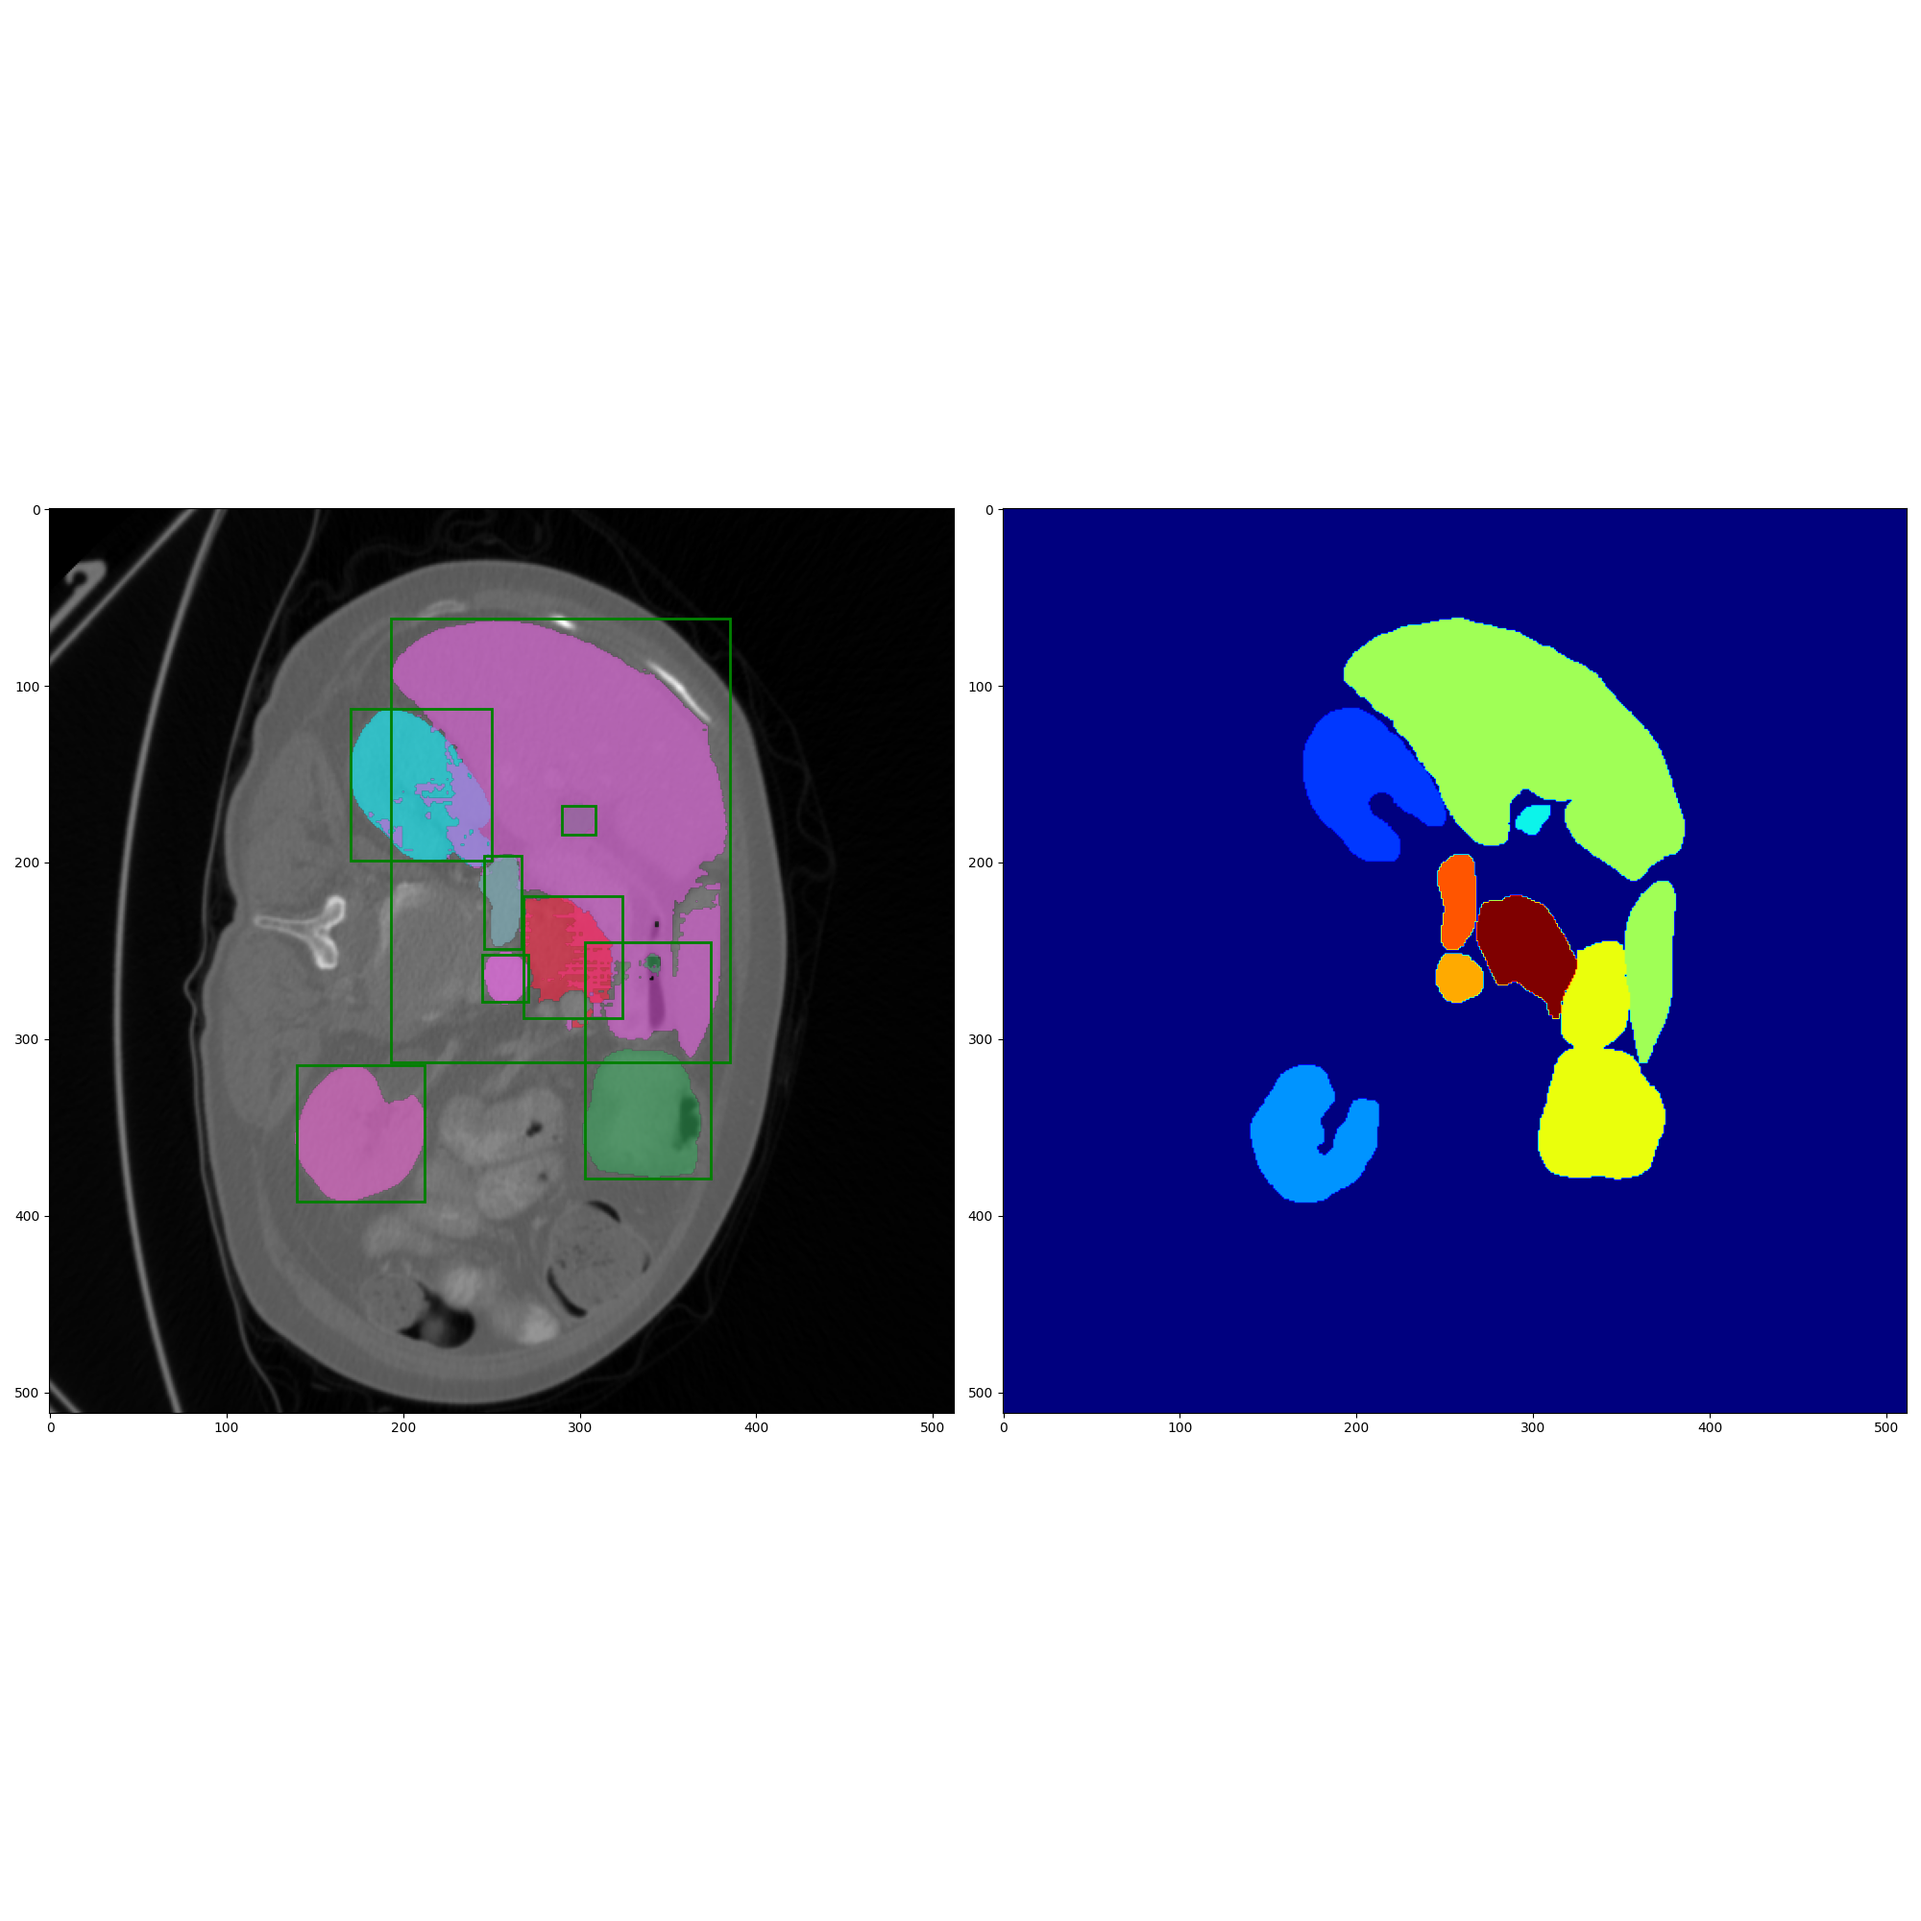
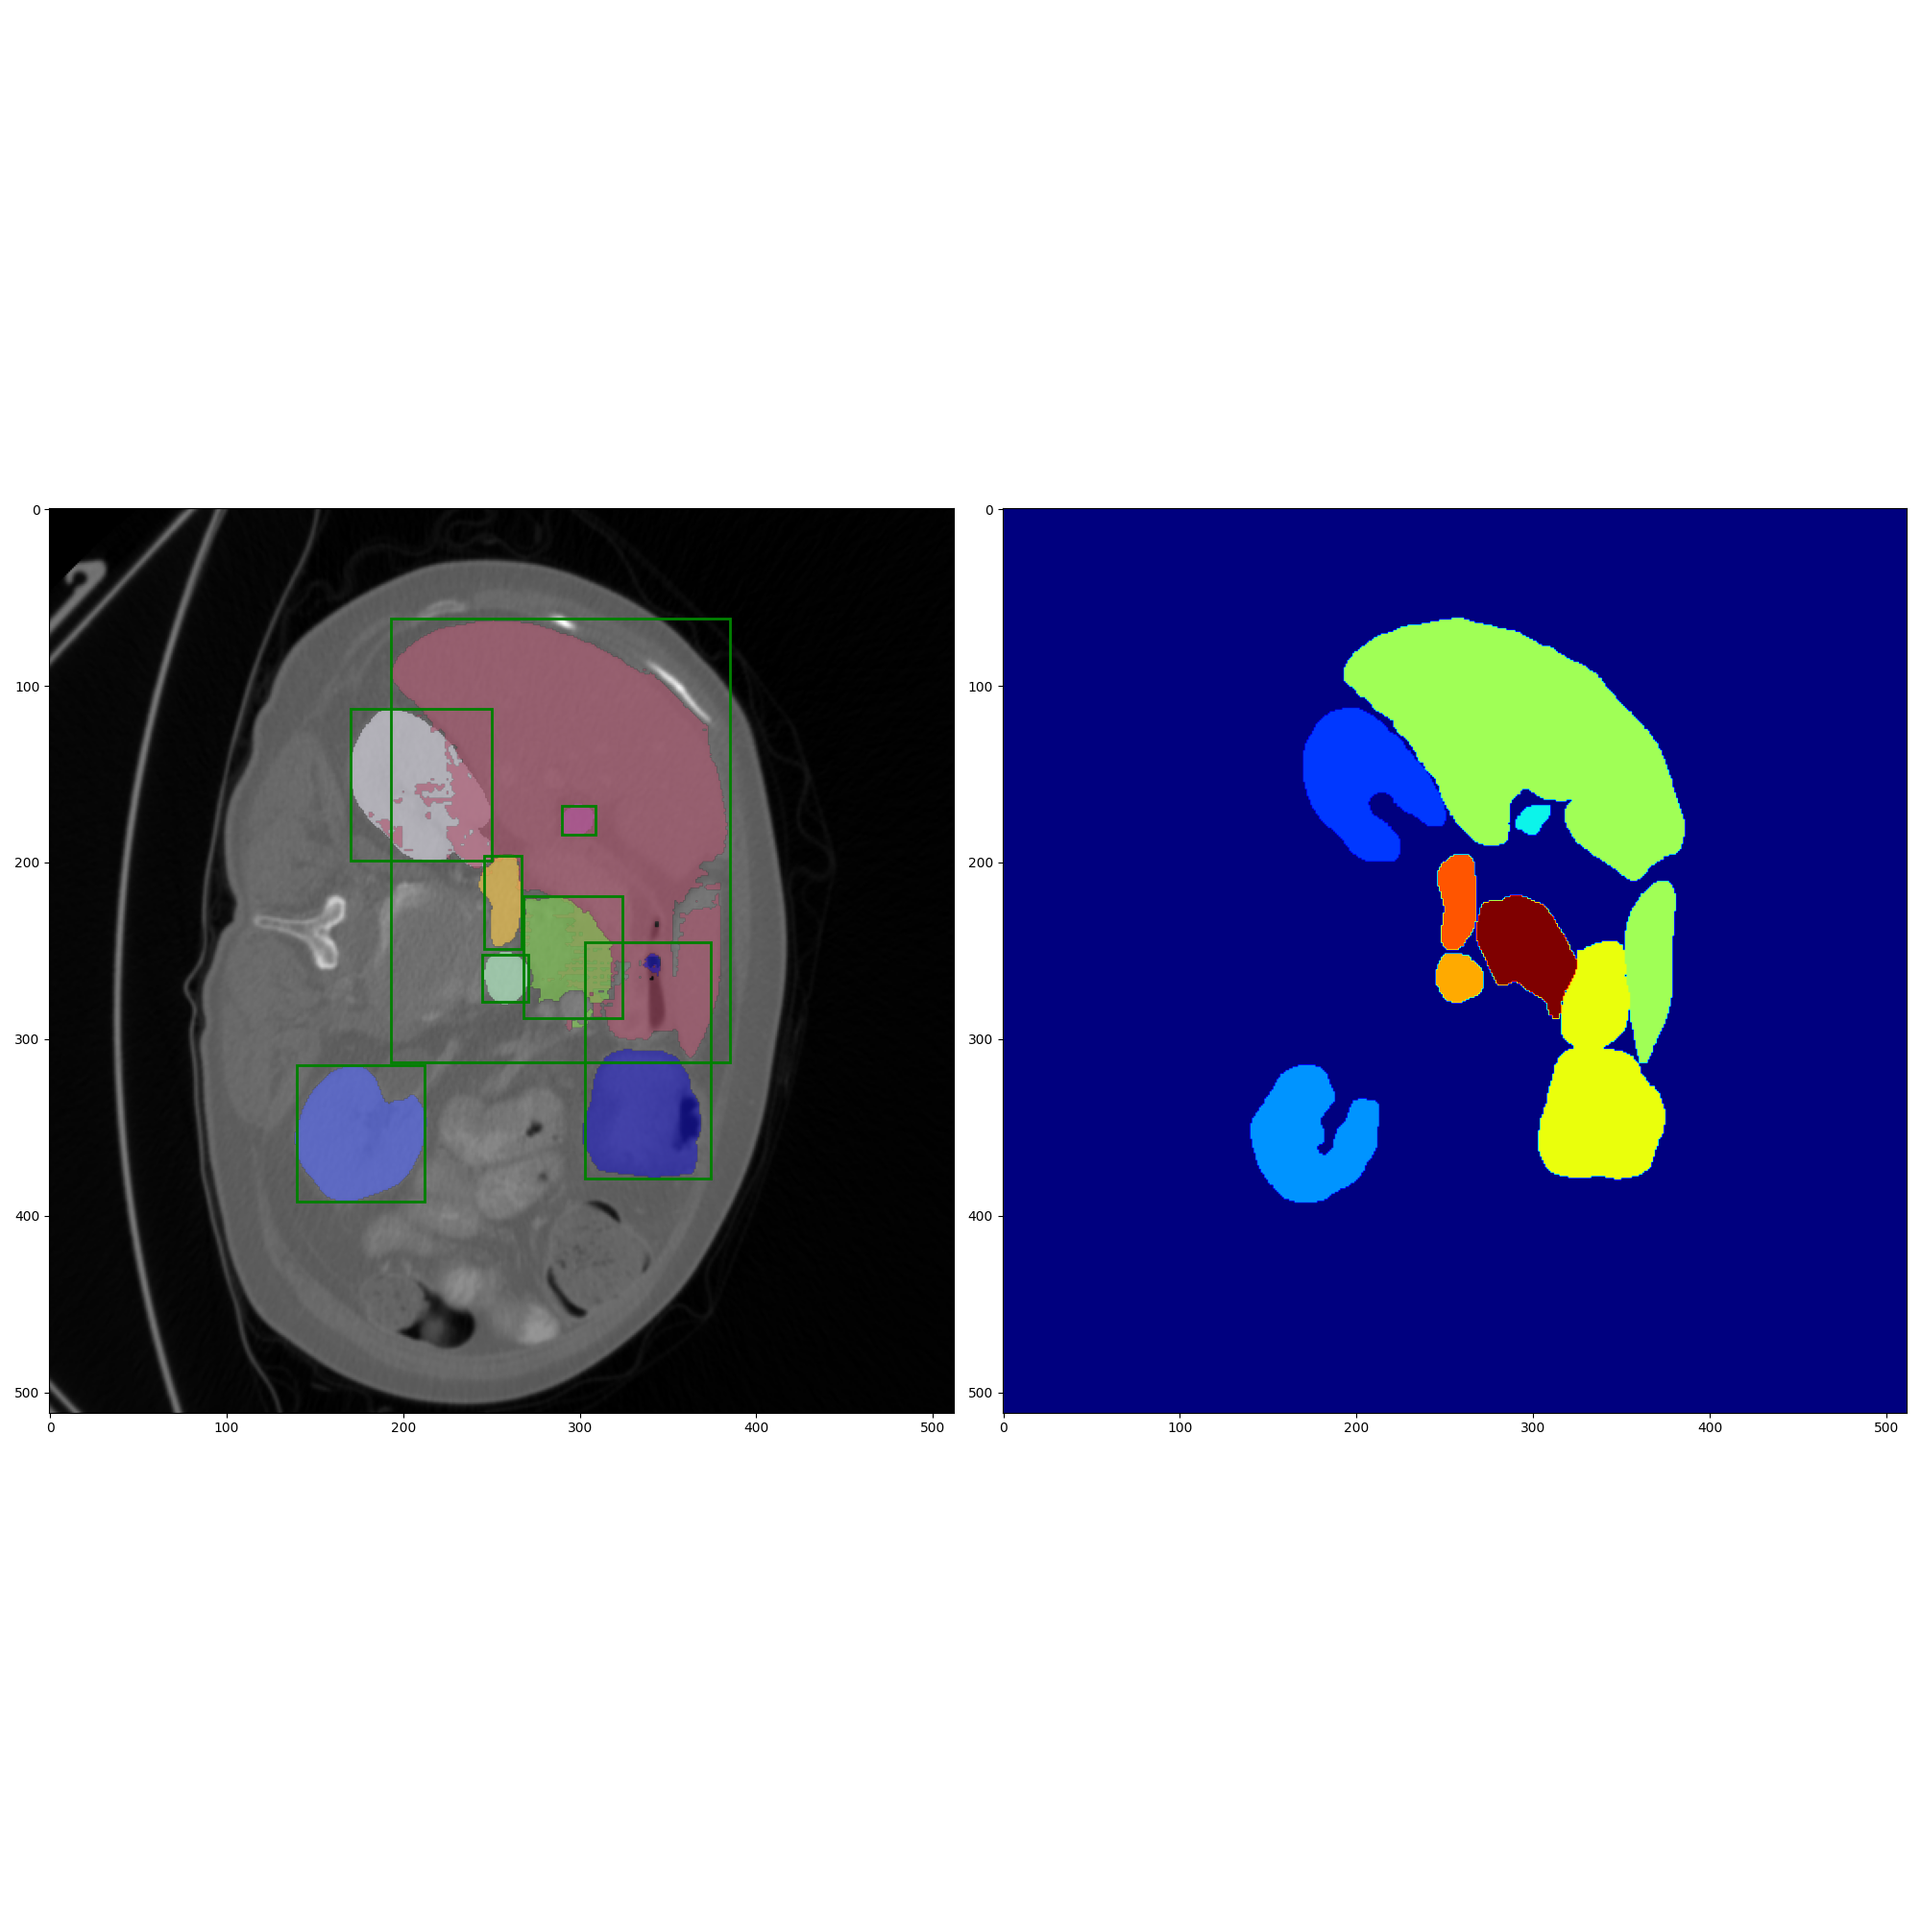
1229

Changed region(s): [[0.186, 0.31, 0.403, 0.62], [0.155, 0.558, 0.217, 0.62]]

diff --git a/Sam/test.py b/Sam/test.py
@@ -6,9 +6,6 @@ import matplotlib.pyplot as plt
 import cv2
 import sys
 from matplotlib import cm
-import torch
-import torch.nn as nn
-import torch.optim as optim
 sys.path.append("..")
 from segment_anything import sam_model_registry, SamPredictor
 
@@ -58,34 +55,6 @@ label_data = label_img.get_fdata()
 num_slices = image_data.shape[-1]
 output_folder = "1" 
 os.makedirs(output_folder, exist_ok=True)
-
-class MultiClassDiceLoss(nn.Module):
-    def __init__(self, num_classes):
-        super(MultiClassDiceLoss, self).__init__()
-        self.num_classes = num_classes
-
-    def forward(self, batched_input, targets):
-        smooth = 1e-5
-
-        dice_loss = 0.0
-        for class_idx in range(1, self.num_classes + 1):
-            target = (targets == class_idx).float()
-            mask = sam(batched_input, multimask_output=False)
-
-            intersection = torch.sum(target * mask)
-            union = torch.sum(target) + torch.sum(mask) + smooth
-
-            dice_coefficient = (2.0 * intersection + smooth) / union
-            dice_loss -= dice_coefficient.log()
-
-        return dice_loss / self.num_classes
-
-
-num_classes = 13  # 你的类别数量
-model = YourSegmentationModel()  # 替换为你的分割模型
-optimizer = optim.Adam(model.parameters(), lr=0.001)
-criterion = MultiClassDiceLoss(num_classes)
-
 for i in range(100, num_slices):
     h, w = label_data[:, :, i].shape
     index = []
@@ -110,6 +79,16 @@ for i in range(100, num_slices):
         image = ((image - np.min(image)) / (np.max(image) - np.min(image)) * 255).astype(np.uint8)
         image = cv2.cvtColor(image, cv2.COLOR_GRAY2RGB)
         print(image.shape)
+        fig, ax = plt.subplots(1, 2, figsize=(20, 20))
+
+        ax[0].imshow(image,  cmap='gray')
+        for box in image_box:
+            show_box(np.array(box), ax[0])
+
+        ax[1].imshow(label_data[:, :, i], cmap='jet')
+        plt.tight_layout()
+        # plt.show()
+        save_path = os.path.join(output_folder, f'slice_{i + 1}.png')
         image_boxes = torch.tensor(image_box, device = sam.device)
         from segment_anything.utils.transforms import ResizeLongestSide
         resize_transform = ResizeLongestSide(sam.image_encoder.img_size)
@@ -120,4 +99,23 @@ for i in range(100, num_slices):
             'original_size': image.shape[:2]
         },
         ]
+        batched_output = sam(batched_input, multimask_output=False)
+        for mask in batched_output[0]['masks']:
+            show_mask(mask.cpu().numpy(), ax[0], random_color=True)
+        plt.savefig(save_path)
+        plt.close()
+        # calc mDice 
+        mDice = 0
+        num = len(index)
+        for T in range(num) : 
+            label = np.zeros((h, w))
+            for j in range(h):
+                for k in range(w) : 
+                    if(label_data[j][k][i] == index[T]) : 
+                        label[j][k] = 1
+            print(np.sum(label), np.sum(batched_output[0]['masks'][T].cpu().numpy().sum()))
+            dice = np.sum(label * batched_output[0]['masks'][T].cpu().numpy()) * 2.0 / (np.sum(label) + np.sum(batched_output[0]['masks'][T].cpu().numpy()))
+            print(dice)
+            mDice += dice
+        mDice /= len(index)
         print("mDice : ", mDice)

diff --git a/Sam/segment_anything/modeling/sam.py b/Sam/segment_anything/modeling/sam.py
@@ -121,7 +121,7 @@ class Sam(nn.Module):
                 input_size=image_record["image"].shape[-2:],
                 original_size=image_record["original_size"],
             )
-            masks = masks > self.mask_threshold
+            # masks = masks > self.mask_threshold
             outputs.append(
                 {
                     "masks": masks,
